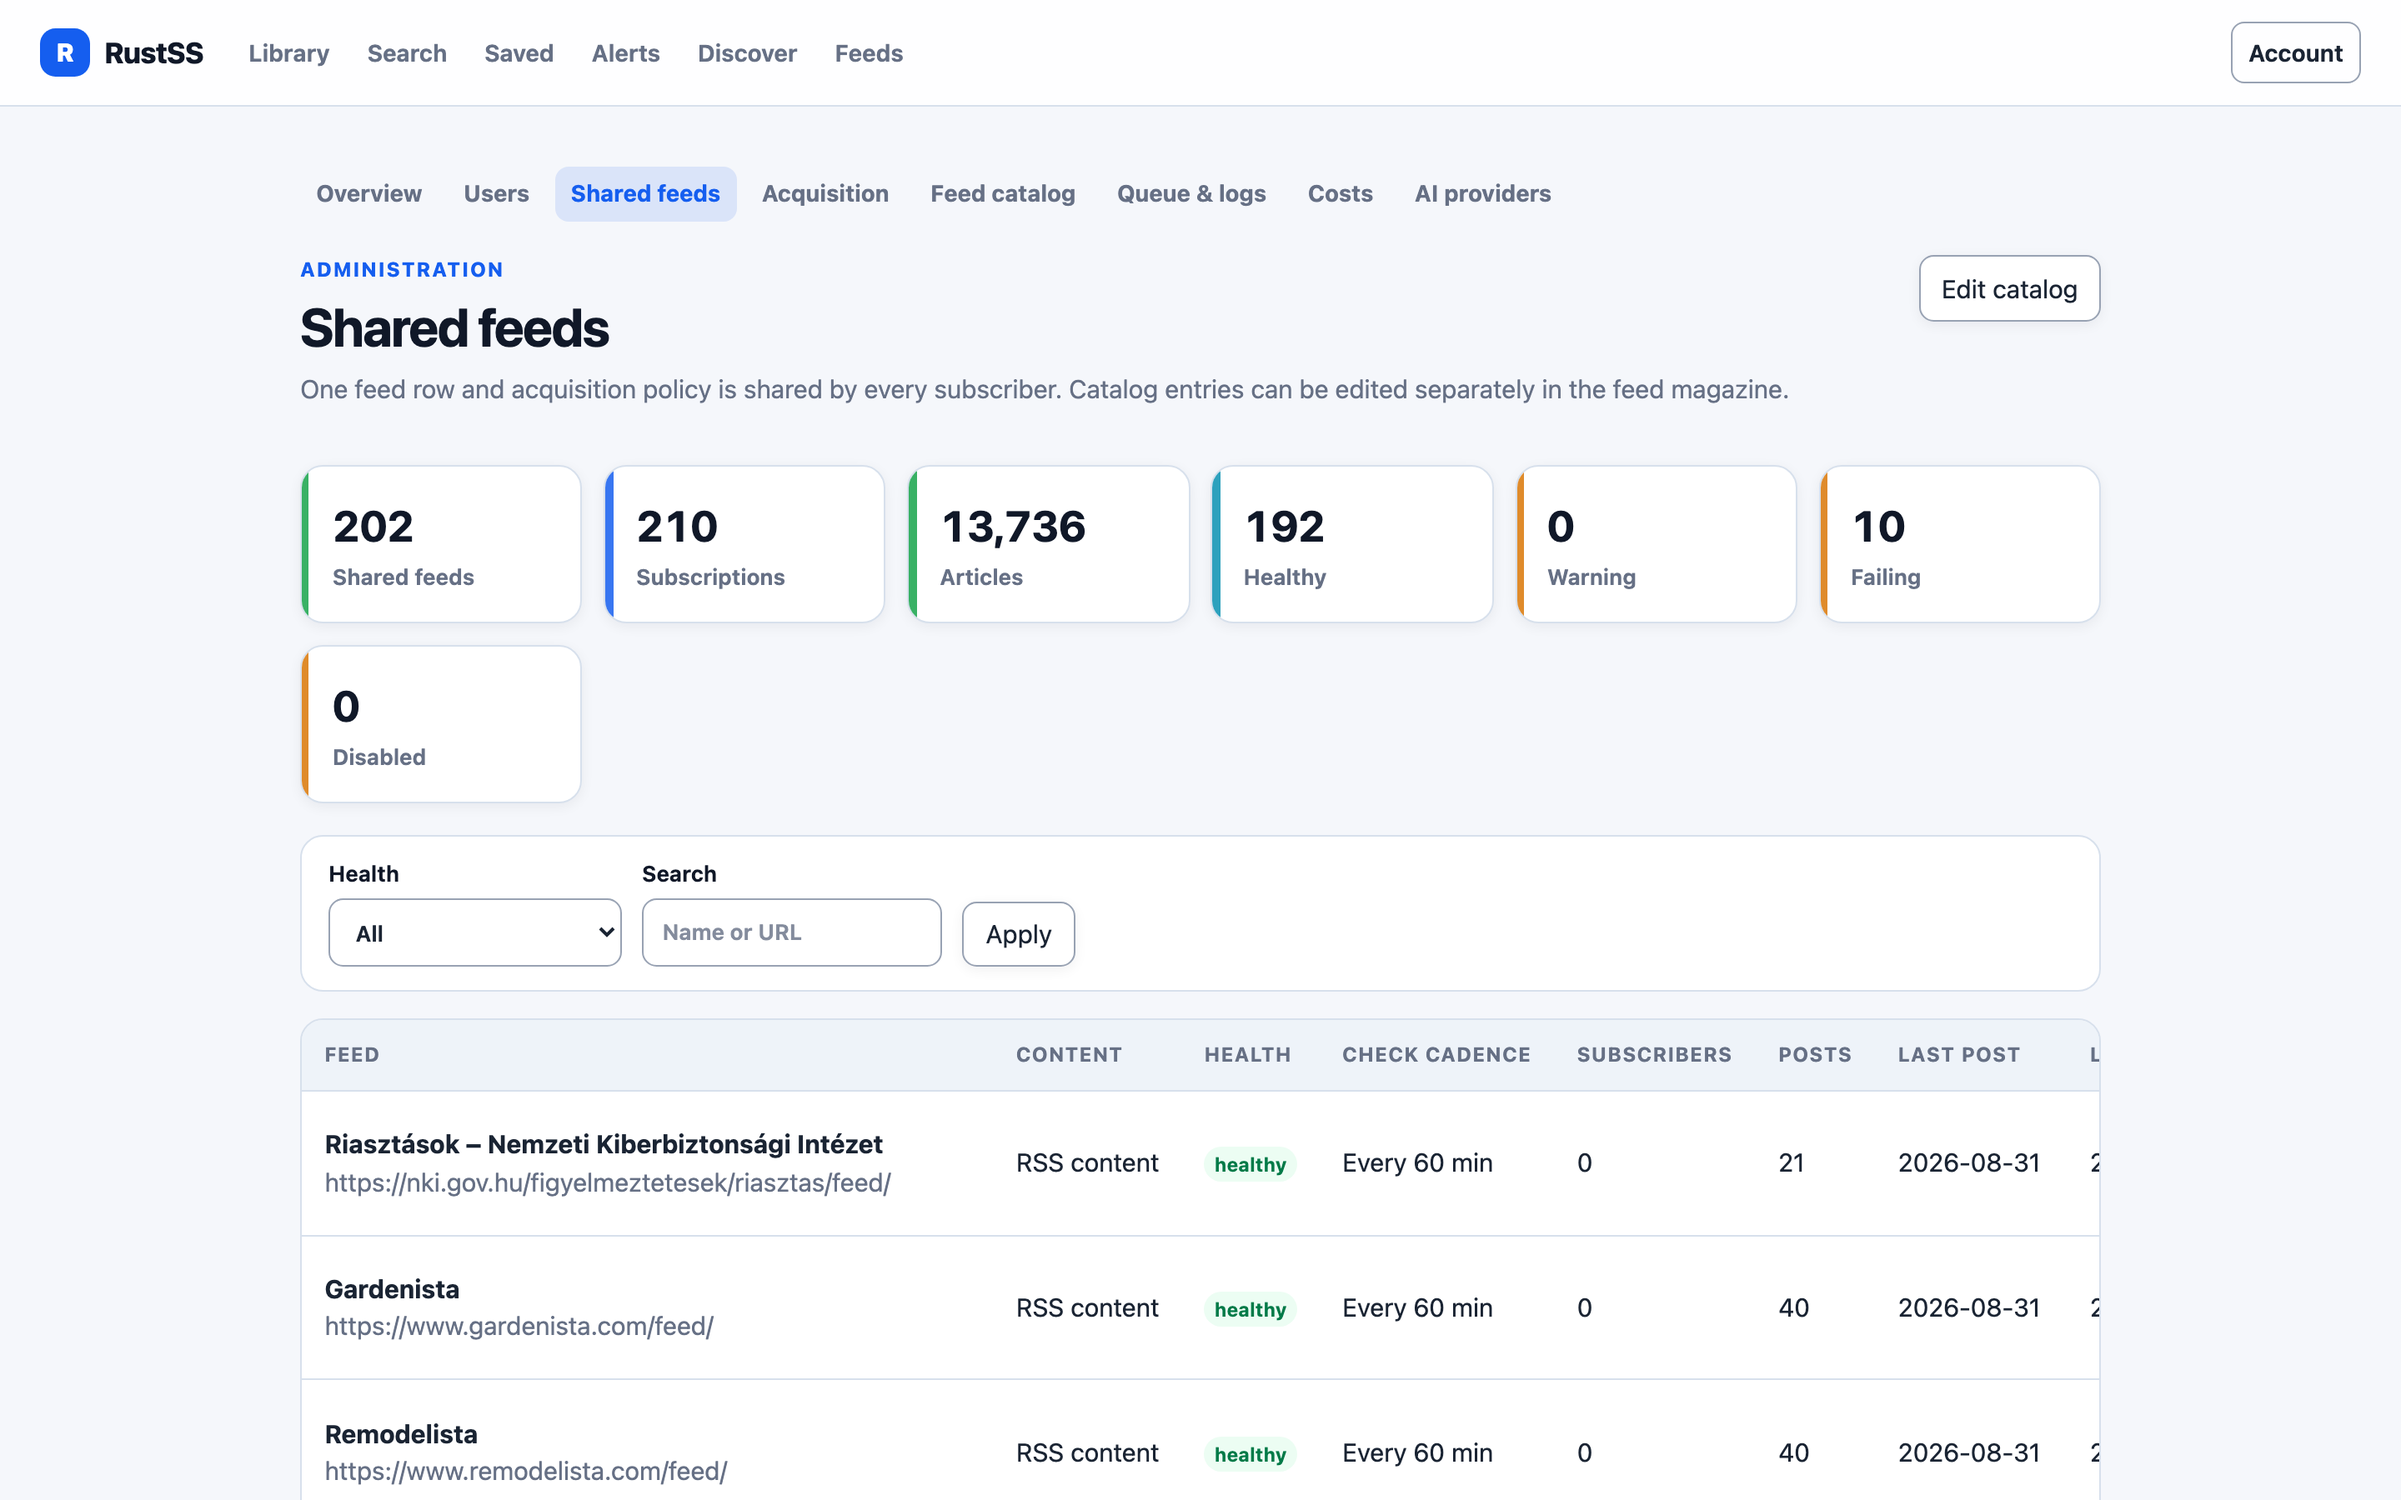
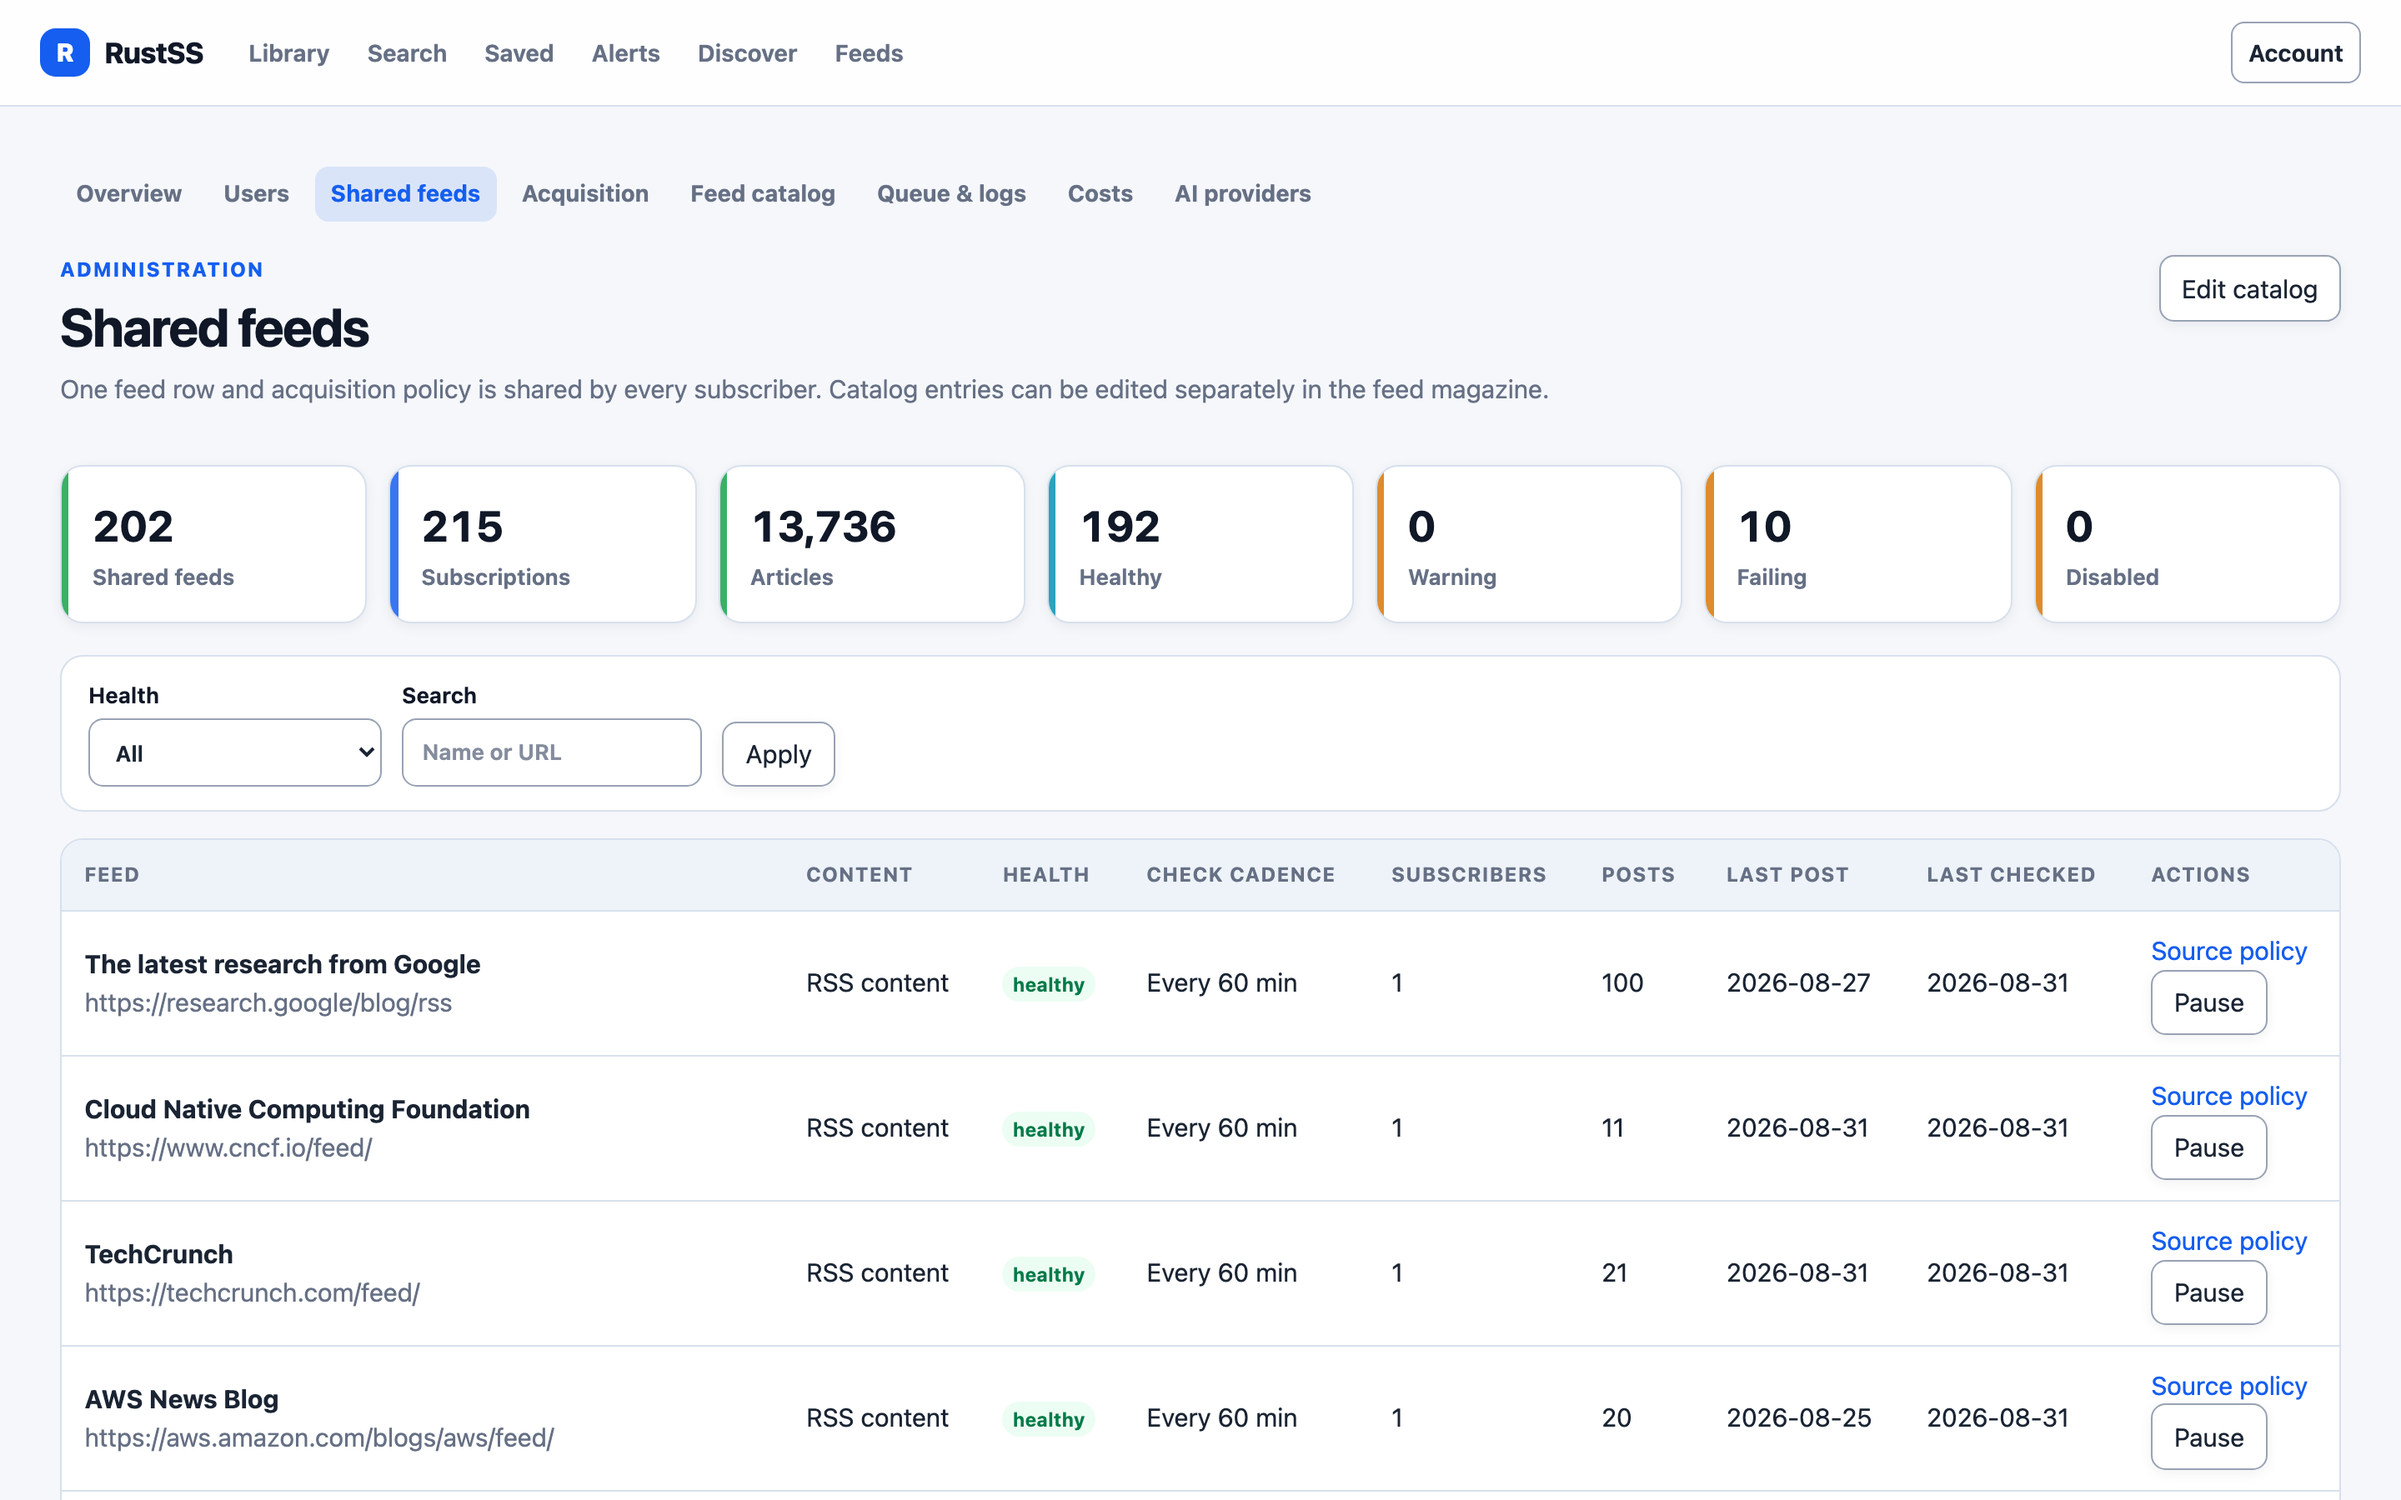
docs: refresh admin screenshots (wider feeds table, add logs)
Regenerate the shared-feeds screenshot to show the new full-width table
and add a queue-and-logs screenshot. Also capture admin-logs in the
screenshot script.

Generated with [Devin](https://devin.ai)

diff --git a/docs/screenshots/README.md b/docs/screenshots/README.md
@@ -13,7 +13,8 @@ so they can be refreshed whenever the UI changes.
 | `ai-providers.png` | Managed AI providers (incl. the environment default) |
 | `integrations.png` | Integrations & webhooks with per-destination guidance |
 | `admin-overview.png` | Admin instance overview (stat cards + storage/memory) |
-| `admin-feeds.png` | Admin shared feeds (stats, filters, pagination) |
+| `admin-feeds.png` | Admin shared feeds (full-width table with stats, filters, pagination) |
+| `admin-logs.png` | Admin queue & logs (per-job target column names the feed/article) |
 
 ## Regenerating
 
